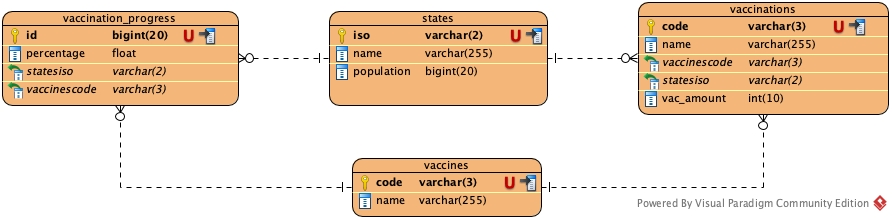
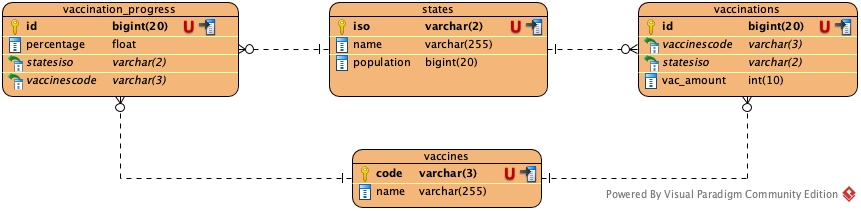
Updated read me and ensure the consistence of database

Changed region(s): [[0.0, 0.0, 1.0, 0.5972], [0.1208, 0.6825, 0.8757, 0.9953], [0.6945, 0.8815, 0.9965, 0.9668]]

diff --git a/web-app/public/overview/overview.html b/web-app/public/overview/overview.html
@@ -27,7 +27,7 @@
                             <label>
                                 Federal State
                                 <%=  %>
-                                <select name="state">
+                                <select name="statesiso">
                                     <% states.forEach(function(state) { %>
                                     <option value="<%= state.iso %>"><%= state.name %></option>
                                     <% })%>
@@ -37,7 +37,7 @@
                         <div class="inputField">
                             <label>
                                 Vaccination count
-                                <input type="number" placeholder="500" name="vac_count">
+                                <input type="number" placeholder="500" name="vac_amount">
                             </label>
                         </div>
                     </div>
@@ -45,7 +45,7 @@
                         <label>
                             Vaccine
                             <%=  %>
-                            <select name="vaccine">
+                            <select name="vaccinescode">
                                 <% vaccines.forEach(function(vaccine) { %>
                                 <option value="<%= vaccine.code %>"><%= vaccine.name %></option>
                                 <% })%>

diff --git a/README.md b/README.md
@@ -12,6 +12,29 @@ Enable ingress `minikube addons enable ingress`
 
 # Use Case: World vaccination progress
 
+## Database Design
+The following images gives a slight overview about our database structure.
+Mainly we are using four tables, which holds the complete data of the project.
+
+The tables `states` and `vaccines` are preloaded with content to ensure that the application runs properly.
+
+The remaining tables are feed with dynamic user generated data, which are calculated and inserted via kafka and batch processing.
+
+![Database Design](https://raw.githubusercontent.com/smertins27/cbd-vaccination/master/documentation/images/MySQL_Database.jpg)
+
+## Generating data
+
+The user generated data consists of `vaccinescode`, `statesiso` and `vac_amount` which are filled with information from a form.
+To simulate the Big Data character and to stress the batch processing a hugh amount of data entries can be generated randomly by a Javascript function.  
+
+```
+{ 
+	vaccinescode: 'bnt', 
+	statesiso: 'NI',
+	vac_amount: '1500',
+}
+```
+
 ## Prerequisites
 
 A running Strimzi.io Kafka operator
